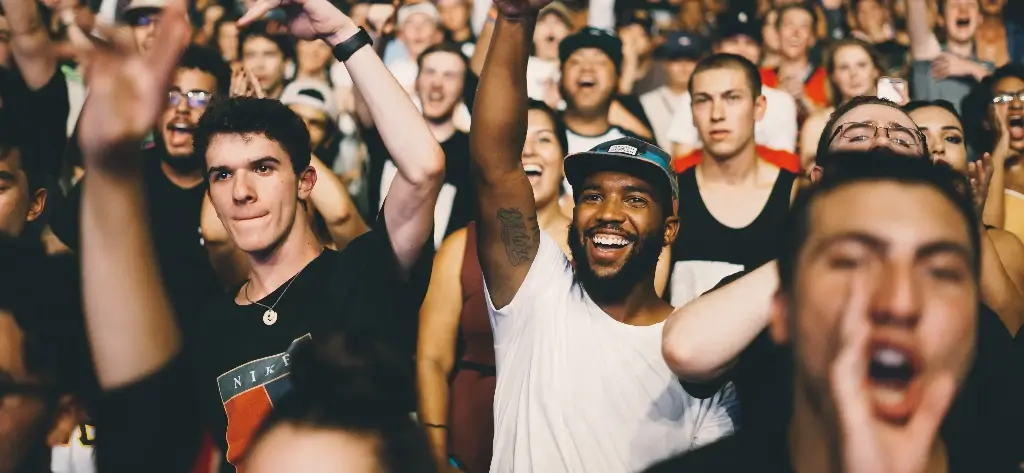
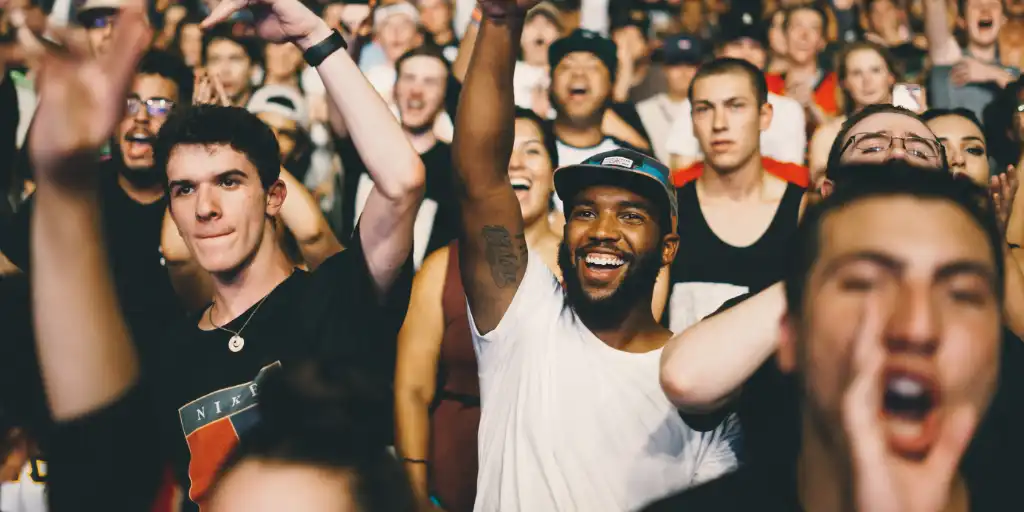
Adjusting slider images to the same height

diff --git a/assets/style.min.css b/assets/style.min.css
@@ -1,1 +1,1 @@
-body{max-width:1920px;margin:auto}*{font-family:"Inter";font-style:normal}.top-header{background-color:#fff;position:sticky;top:0;z-index:1000;display:flex;justify-content:space-between;align-items:center;padding-inline:100px;padding-block:30px}.top-header .name,footer .name{font-size:26px}.nav ul{display:flex;list-style-type:none;font-size:14px;margin-bottom:0}.nav li{padding-inline:10px}.nav a{text-decoration:none;color:#000}.social-link img{width:20px}img{max-width:100%;height:auto;object-fit:contain}#about{display:flex;background-color:#f6d2b8;padding-inline:100px;padding-block:100px;position:relative}.picture.left::before{content:" ";background-color:#e5975f;width:374px;height:329px;position:absolute;bottom:0;left:0;z-index:-1;object-fit:contain}.picture{flex:1;margin:0 20px;z-index:0}.picture img{width:100%}#about-me{flex:2}.about-me__title{margin-top:1em;margin-bottom:60px;font-size:30px}.about-me__introduction{font-family:"Spectral";font-weight:800;font-style:italic;width:60%}#about-me p{width:80%;font-size:14px}.title{text-align:center;padding-block:2em}.gallery .nav{justify-content:center}.nav-pills .nav-link.active,.nav-pills .show>.nav-link{color:#fff;background-color:#5e5926;border-radius:0}.nav-pills .nav-link{color:#000}.item-column{position:relative;margin-bottom:0!important;padding:0}.item-column::after{content:"";display:block;padding-bottom:100%}.gallery-item{position:absolute;width:100%;height:100%;object-fit:cover;padding:.5em}.mg-prev,.mg-next{width:30px;height:30px;border-radius:0%;justify-content:center;align-items:center;display:flex;font-size:24px}.quote{font-family:"Spectral";font-style:italic;width:70%;margin:auto;padding-block:3em}.quote__text{font-family:Spectral;font-style:italic;font-weight:300}.quote__author{font-family:Spectral;font-weight:800;font-size:22px}#services{margin:auto;background-color:#a8d5d8;position:relative}#services .container::before{content:" ";background-color:#1c6474;position:absolute;width:100%;height:30%;bottom:0;left:0;z-index:0}#services .container{justify-content:space-between;display:flex;padding:2em 0}.service{background-color:#fff;max-width:390px;width:30%;height:337px;padding:1em;display:flex;flex-direction:column;justify-content:space-between;z-index:1}#contact{margin:auto;background-color:#d8d3a8;position:relative;padding-inline:100px;padding-block:100px}#contact .container{display:flex}.picture.right::before{content:" ";background-color:#beb45a;width:374px;height:329px;position:absolute;bottom:0;right:0;z-index:-1;object-fit:contain}.form-container{flex:2}form{display:flex;flex-direction:column;width:70%;align-items:flex-start}form input{width:100%;background-color:#fff0;border:solid 1px;height:2.5em;margin-bottom:20px}form textarea{width:100%;background-color:#fff0;border:solid 1px;height:5em;line-height:2.5em;font-size:1.2em;margin-bottom:20px}input[type="submit"]{background-color:#beb45a;padding:.5em 1em}footer{background-color:#5f5826;color:#fff;width:100%;display:flex;padding:0 2em 0 2em}.footer_title{padding-bottom:1em}footer .footer_left{width:100%;padding:3.75em}footer ul{display:flex;justify-content:center;list-style-type:none;flex-direction:column;margin:0;padding:0;line-height:2em}footer .footer_right{display:flex;flex-direction:column;justify-content:center;align-items:center;padding:2em;width:100%}@media all and (max-width:1180px){.picture{flex:2}#about,#contact .container{align-items:center}.about-me__title{margin-top:0;margin-bottom:1em}#about-me h6,#about-me p{width:100%}}@media all and (max-width:1000px){#about{flex-direction:column}.picture{width:50%}.picture.left::before{width:100%;height:30%;position:absolute;bottom:auto;top:0;left:0;z-index:-1}.about-me__title{text-align:center;margin-top:1em}#services .container{flex-direction:column}.service{width:100%;max-width:100%;height:auto;margin:2em 0}.service__description{margin-bottom:1em}#services .container::before{width:30%;height:100%;bottom:0;right:0;left:auto;z-index:0}#contact .container{flex-direction:column}#contact .picture.right{margin-top:1em}.picture.right::before{width:100%;height:30%;position:absolute;bottom:0;right:0;z-index:-1}}@media all and (max-width:650px){.top-header{flex-direction:column;padding-inline:0}.top-header .nav,.top-header .nav ul{width:100%;padding:0 0 0 0}.top-header .nav li{flex:1;padding-block:1em;text-align:center}.picture.left::before,.picture.right::before{height:150px}#services .container{align-items:center}.service{max-width:90%}#about,#contact{padding-inline:2em;padding-block:2em}form{width:100%}.picture{width:80%}footer{flex-direction:column;align-items:center;text-align:center;padding:0}footer .footer_left{justify-content:center;padding:0;padding-top:2em}}
+/* body{max-width:1920px;margin:auto}*{font-family:"Inter";font-style:normal}.top-header{background-color:#fff;position:sticky;top:0;z-index:1000;display:flex;justify-content:space-between;align-items:center;padding-inline:100px;padding-block:30px}.top-header .name,footer .name{font-size:26px}.nav ul{display:flex;list-style-type:none;font-size:14px;margin-bottom:0}.nav li{padding-inline:10px}.nav a{text-decoration:none;color:#000}.social-link img{width:20px}img{max-width:100%;height:auto;object-fit:contain}#about{display:flex;background-color:#f6d2b8;padding-inline:100px;padding-block:100px;position:relative}.picture.left::before{content:" ";background-color:#e5975f;width:374px;height:329px;position:absolute;bottom:0;left:0;z-index:-1;object-fit:contain}.picture{flex:1;margin:0 20px;z-index:0}.picture img{width:100%}#about-me{flex:2}.about-me__title{margin-top:1em;margin-bottom:60px;font-size:30px}.about-me__introduction{font-family:"Spectral";font-weight:800;font-style:italic;width:60%}#about-me p{width:80%;font-size:14px}.title{text-align:center;padding-block:2em}.gallery .nav{justify-content:center}.nav-pills .nav-link.active,.nav-pills .show>.nav-link{color:#fff;background-color:#5e5926;border-radius:0}.nav-pills .nav-link{color:#000}.item-column{position:relative;margin-bottom:0!important;padding:0}.item-column::after{content:"";display:block;padding-bottom:100%}.gallery-item{position:absolute;width:100%;height:100%;object-fit:cover;padding:.5em}.mg-prev,.mg-next{width:30px;height:30px;border-radius:0%;justify-content:center;align-items:center;display:flex;font-size:24px}.quote{font-family:"Spectral";font-style:italic;width:70%;margin:auto;padding-block:3em}.quote__text{font-family:Spectral;font-style:italic;font-weight:300}.quote__author{font-family:Spectral;font-weight:800;font-size:22px}#services{margin:auto;background-color:#a8d5d8;position:relative}#services .container::before{content:" ";background-color:#1c6474;position:absolute;width:100%;height:30%;bottom:0;left:0;z-index:0}#services .container{justify-content:space-between;display:flex;padding:2em 0}.service{background-color:#fff;max-width:390px;width:30%;height:337px;padding:1em;display:flex;flex-direction:column;justify-content:space-between;z-index:1}#contact{margin:auto;background-color:#d8d3a8;position:relative;padding-inline:100px;padding-block:100px}#contact .container{display:flex}.picture.right::before{content:" ";background-color:#beb45a;width:374px;height:329px;position:absolute;bottom:0;right:0;z-index:-1;object-fit:contain}.form-container{flex:2}form{display:flex;flex-direction:column;width:70%;align-items:flex-start}form input{width:100%;background-color:#fff0;border:solid 1px;height:2.5em;margin-bottom:20px}form textarea{width:100%;background-color:#fff0;border:solid 1px;height:5em;line-height:2.5em;font-size:1.2em;margin-bottom:20px}input[type="submit"]{background-color:#beb45a;padding:.5em 1em}footer{background-color:#5f5826;color:#fff;width:100%;display:flex;padding:0 2em 0 2em}.footer_title{padding-bottom:1em}footer .footer_left{width:100%;padding:3.75em}footer ul{display:flex;justify-content:center;list-style-type:none;flex-direction:column;margin:0;padding:0;line-height:2em}footer .footer_right{display:flex;flex-direction:column;justify-content:center;align-items:center;padding:2em;width:100%}@media all and (max-width:1180px){.picture{flex:2}#about,#contact .container{align-items:center}.about-me__title{margin-top:0;margin-bottom:1em}#about-me h6,#about-me p{width:100%}}@media all and (max-width:1000px){#about{flex-direction:column}.picture{width:50%}.picture.left::before{width:100%;height:30%;position:absolute;bottom:auto;top:0;left:0;z-index:-1}.about-me__title{text-align:center;margin-top:1em}#services .container{flex-direction:column}.service{width:100%;max-width:100%;height:auto;margin:2em 0}.service__description{margin-bottom:1em}#services .container::before{width:30%;height:100%;bottom:0;right:0;left:auto;z-index:0}#contact .container{flex-direction:column}#contact .picture.right{margin-top:1em}.picture.right::before{width:100%;height:30%;position:absolute;bottom:0;right:0;z-index:-1}}@media all and (max-width:650px){.top-header{flex-direction:column;padding-inline:0}.top-header .nav,.top-header .nav ul{width:100%;padding:0 0 0 0}.top-header .nav li{flex:1;padding-block:1em;text-align:center}.picture.left::before,.picture.right::before{height:150px}#services .container{align-items:center}.service{max-width:90%}#about,#contact{padding-inline:2em;padding-block:2em}form{width:100%}.picture{width:80%}footer{flex-direction:column;align-items:center;text-align:center;padding:0}footer .footer_left{justify-content:center;padding:0;padding-top:2em}} */body{max-width:1920px;margin:auto;object-fit:cover}*{font-family:"Inter";font-style:normal}.top-header{background-color:#fff;position:sticky;top:0;z-index:1000;display:flex;justify-content:space-between;align-items:center;padding-inline:100px;padding-block:30px}.top-header .name,footer .name{font-size:26px}.nav ul{display:flex;list-style-type:none;font-size:14px;margin-bottom:0}.nav li{padding-inline:10px}.nav a{text-decoration:none;color:#000}.social-link img{width:20px}img{max-width:100%;height:auto}#about{display:flex;background-color:#f6d2b8;padding-inline:100px;padding-block:100px;position:relative}.picture.left::before{content:" ";background-color:#e5975f;width:374px;height:329px;position:absolute;bottom:0;left:0;z-index:-1}.picture{flex:1;margin:0 20px;z-index:0}.picture img{width:100%}#about-me{flex:2}.about-me__title{margin-top:1em;margin-bottom:60px;font-size:30px}.about-me__introduction{font-size:16px;font-family:"Spectral";font-weight:800;font-style:italic;width:80%}#about-me p{width:80%;font-size:14px}.title{text-align:center;padding-block:2em}.gallery .nav{justify-content:center}.nav-pills .nav-link.active,.nav-pills .show>.nav-link{color:#fff;background-color:#5e5926;border-radius:0}.nav-pills .nav-link{color:#000;cursor:pointer}.item-column{position:relative;margin-bottom:0!important;padding:0}.item-column::after{content:"";display:block;padding-bottom:100%}.gallery-item{position:absolute;width:100%;height:100%;object-fit:cover;padding:.5em}.mg-prev,.mg-next{width:30px;height:30px;border-radius:0%;justify-content:center;align-items:center;display:flex;font-size:24px}.quote{font-family:"Spectral";font-style:italic;width:70%;margin:auto;padding-block:3em}.quote__text{font-family:Spectral;font-style:italic;font-weight:300}.quote__author{font-family:Spectral;font-weight:800;font-size:22px}#services{margin:auto;background-color:#a8d5d8;position:relative}#services .container::before{content:" ";background-color:#1c6474;position:absolute;width:100%;height:30%;bottom:0;left:0;z-index:0}#services .container{justify-content:space-between;display:flex;padding:2em 0}.service{background-color:#fff;max-width:390px;width:30%;height:337px;padding:1em;display:flex;flex-direction:column;justify-content:space-between;z-index:1}#contact{margin:auto;background-color:#d8d3a8;position:relative;padding-inline:100px;padding-block:100px}#contact .container{display:flex}.picture.right::before{content:" ";background-color:#beb45a;width:374px;height:329px;position:absolute;bottom:0;right:0;z-index:-1}.form-container{flex:2}form{display:flex;flex-direction:column;width:70%;align-items:flex-start}form input{width:100%;background-color:#fff0;border:solid 1px;height:2.5em;margin-bottom:20px}form textarea{width:100%;background-color:#fff0;border:solid 1px;height:5em;line-height:2.5em;font-size:1.2em;margin-bottom:20px}input[type="submit"]{background-color:#beb45a;padding:.5em 1em}footer{background-color:#5f5826;color:#fff;width:100%;display:flex;padding:0 2em 0 2em}.footer_title{padding-bottom:1em}footer .footer_left{width:100%;padding:3.75em}footer ul{display:flex;justify-content:center;list-style-type:none;flex-direction:column;margin:0;padding:0;line-height:2em}footer .footer_right{display:flex;flex-direction:column;justify-content:center;align-items:center;padding:2em;width:100%}@media all and (max-width:1180px){.picture{flex:2}#about,#contact .container{align-items:center}.about-me__introduction{width:100%}.about-me__title{margin-top:0;margin-bottom:1em}#about-me h3,#about-me p{width:100%}}@media all and (max-width:1000px){#about{flex-direction:column}.picture{width:50%}.picture.left::before{width:100%;height:30%;position:absolute;bottom:auto;top:0;left:0;z-index:-1}.about-me__title{text-align:center;margin-top:1em}#services .container{flex-direction:column}.service{width:100%;max-width:100%;height:auto;margin:2em 0}.service__description{margin-bottom:1em}#services .container::before{width:30%;height:100%;bottom:0;right:0;left:auto;z-index:0}#contact .container{flex-direction:column}#contact .picture.right{margin-top:1em}.picture.right::before{width:100%;height:30%;position:absolute;bottom:0;right:0;z-index:-1}.form-container{width:100%;display:flex;flex-direction:column;align-items:center}}@media all and (max-width:650px){.top-header{flex-direction:column;padding-inline:0}.top-header .nav,.top-header .nav ul{width:100%;padding:0 0 0 0}.top-header .nav li{flex:1;padding-block:1em;text-align:center}.picture.left::before,.picture.right::before{height:150px}#services .container{align-items:center}.service{max-width:90%}#about,#contact{padding-inline:2em;padding-block:2em}form{width:100%}.picture{width:80%}footer{flex-direction:column;align-items:center;text-align:center;padding:0}footer .footer_left{justify-content:center;padding:0;padding-top:2em}}

diff --git a/assets/style.css b/assets/style.css
@@ -1,10 +1,11 @@
-body {
-  max-width: 1920px;
-  margin: auto;
-}
 * {
   font-family: "Inter";
   font-style: normal;
+}
+body {
+  max-width: 1920px;
+  margin: auto;
+  object-fit: cover;
 }
 .top-header {
   background-color: white;
@@ -40,7 +41,6 @@ footer .name {
 img {
   max-width: 100%;
   height: auto;
-  object-fit: contain;
 }
 #about {
   display: flex;
@@ -58,7 +58,6 @@ img {
   bottom: 0;
   left: 0;
   z-index: -1;
-  object-fit: contain;
 }
 .picture {
   flex: 1;
@@ -77,10 +76,11 @@ img {
   font-size: 30px;
 }
 .about-me__introduction {
+  font-size: 16px;
   font-family: "Spectral";
   font-weight: 800;
   font-style: italic;
-  width: 60%;
+  width: 80%;
 }
 #about-me p {
   width: 80%;
@@ -97,11 +97,11 @@ img {
 .nav-pills .show > .nav-link {
   color: #fff;
   background-color: #5e5926;
-  /* background-color: #BEB45A; */
   border-radius: 0;
 }
 .nav-pills .nav-link {
   color: #000;
+  cursor: pointer;
 }
 .item-column {
   position: relative;
@@ -124,7 +124,7 @@ img {
 .mg-next {
   width: 30px;
   height: 30px;
-  border-radius: 00%;
+  border-radius: 0%;
   justify-content: center;
   align-items: center;
   display: flex;
@@ -197,7 +197,6 @@ img {
   bottom: 0;
   right: 0;
   z-index: -1;
-  object-fit: contain;
 }
 .form-container {
   flex: 2;
@@ -267,11 +266,14 @@ footer .footer_right {
   #contact .container {
     align-items: center;
   }
+  .about-me__introduction {
+    width: 100%;
+  }
   .about-me__title {
     margin-top: 0;
     margin-bottom: 1em;
   }
-  #about-me h6,
+  #about-me h3,
   #about-me p {
     width: 100%;
   }
@@ -329,6 +331,12 @@ footer .footer_right {
     bottom: 0;
     right: 0;
     z-index: -1;
+  }
+  .form-container {
+    width: 100%;
+    display: flex;
+    flex-direction: column;
+    align-items: center;
   }
 }
 @media all and (max-width: 650px) {

diff --git a/index.html b/index.html
@@ -106,7 +106,7 @@
 					./assets/images/slider/414/ryoji-iwata.webp   414w,
 					./assets/images/slider/320/ryoji-iwata.webp   320w
 					" class="d-block w-100" sizes="100vw" alt="Man from behind in suit crossing" title="man crossing" width="1920"
-						height="888">
+						height="512">
 				</div>
 				<div class="carousel-item">
 					<img src="./assets/images/slider/1920/nicholas-green.webp" srcset="
@@ -116,7 +116,7 @@
 					  ./assets/images/slider/414/nicholas-green.webp   414w,
 					  ./assets/images/slider/320/nicholas-green.webp   320w
 					" class="d-block w-100" sizes="100vw" alt="Crowd of people at concer" title="concert crowd" width="1920"
-						height="888" loading="lazy">
+						height="512" loading="lazy">
 				</div>
 				<div class="carousel-item">
 					<img src="./assets/images/slider/1920/edward-cisneros.webp" srcset="
@@ -126,7 +126,7 @@
 					  ./assets/images/slider/414/edward-cisneros.webp   414w,
 					  ./assets/images/slider/320/edward-cisneros.webp   320w
 					" class="d-block w-100" sizes="100vw" alt="Husband kissing his wife at their wedding surrounded by loved ones"
-						title="family wedding" width="1920" height="888" loading="lazy">
+						title="family wedding" width="1920" height="512" loading="lazy">
 				</div>
 			</div>
 			<button class="carousel-control-prev" type="button" data-bs-target="#carouselExampleIndicators"
